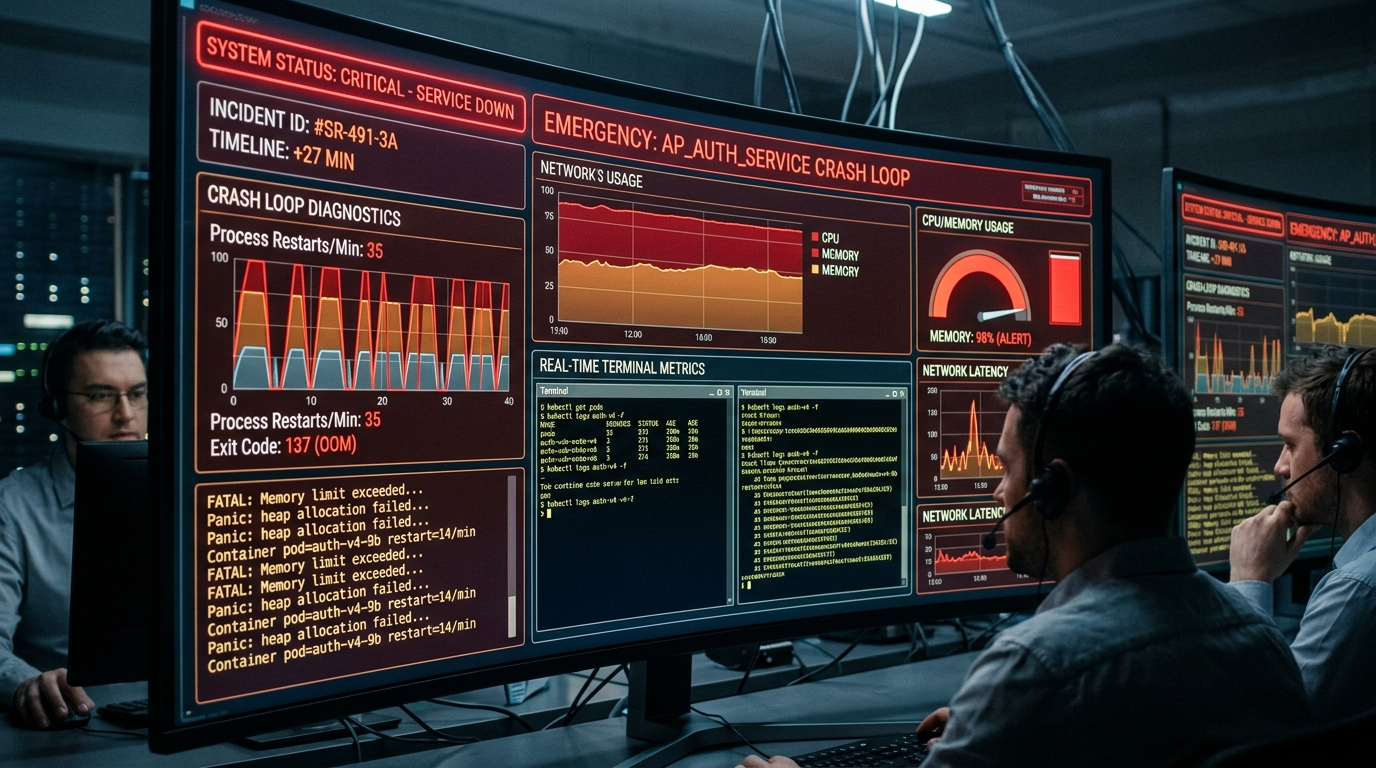
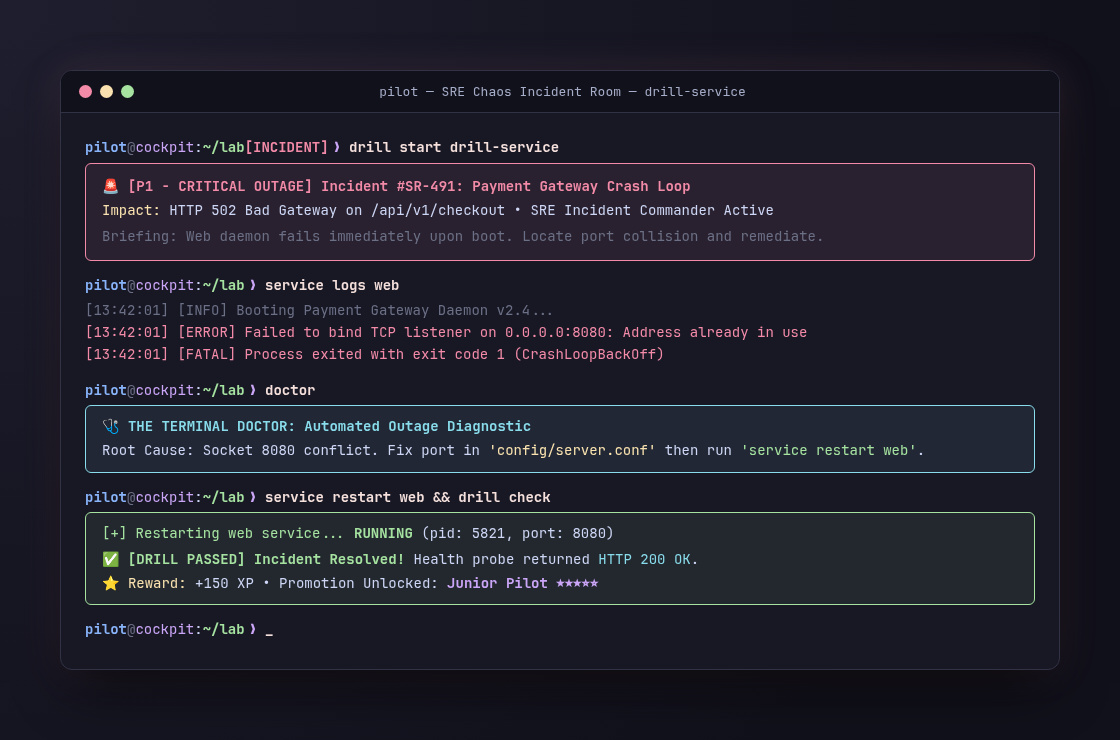
docs: replace illustrations with authentic modern terminal shell screenshots
- Added high-DPI terminal hero screenshot showing ShellPilot interactive cockpit, cadet dossier, service fleet, and structured pipelines
- Added authentic terminal SRE chaos drill incident response screenshot
- Added modern terminal app squircle icon badge
- Updated README.md to use lossless PNG terminal visuals

diff --git a/README.md b/README.md
@@ -1,5 +1,5 @@
 <p align="center">
-  <img src="assets/shellpilot_logo_badge.jpg" alt="ShellPilot Logo Badge" width="220">
+  <img src="assets/shellpilot_logo_badge.png" alt="ShellPilot Logo Badge" width="220">
 </p>
 
 # ShellPilot ✈
@@ -17,7 +17,7 @@
 </p>
 
 <p align="center">
-  <img src="assets/shellpilot_hero_banner.jpg" alt="ShellPilot Cockpit Flight Simulator" width="100%">
+  <img src="assets/shellpilot_hero_banner.png" alt="ShellPilot Cockpit Flight Simulator" width="100%">
 </p>
 
 ---
@@ -213,7 +213,7 @@ tutor next                 # Advance to the next lesson in the track
 ## 🚨 Emergency Chaos Room (`drill`)
 
 <p align="center">
-  <img src="assets/shellpilot_sre_drill.jpg" alt="SRE Emergency Incident Room" width="100%">
+  <img src="assets/shellpilot_sre_drill.png" alt="SRE Emergency Incident Room" width="100%">
 </p>
 
 Put your production troubleshooting skills to the test under realistic incident conditions:
